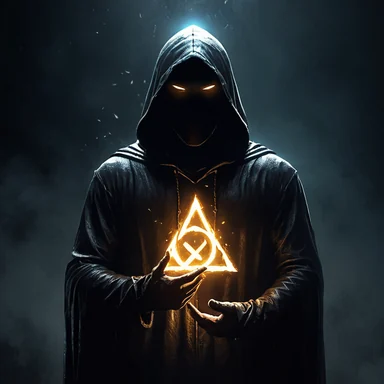
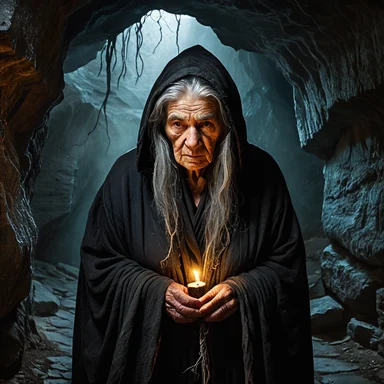
Сборка для GitHub Pages: 24.09 13:19

diff --git a/sw.js b/sw.js
@@ -1,3 +1,3 @@
-if(!self.define){let e,i={};const s=(s,r)=>(s=new URL(s+".js",r).href,i[s]||new Promise(i=>{if("document"in self){const e=document.createElement("script");e.src=s,e.onload=i,document.head.appendChild(e)}else e=s,importScripts(s),i()}).then(()=>{let e=i[s];if(!e)throw new Error(`Module ${s} didn’t register its module`);return e}));self.define=(r,n)=>{const o=e||("document"in self?document.currentScript.src:"")||location.href;if(i[o])return;let b={};const a=e=>s(e,o),d={module:{uri:o},exports:b,require:a};i[o]=Promise.all(r.map(e=>d[e]||a(e))).then(e=>(n(...e),b))}}define(["./workbox-9c191d2f"],function(e){"use strict";self.skipWaiting(),e.clientsClaim(),e.precacheAndRoute([{url:"index.html",revision:"16d0a4d8e2c24fd079bee90f15c763f1"},{url:"icon.svg",revision:"c8f89d95424224c2aef63bae93719b18"},{url:"title/layers/manifest.json",revision:"46f9ea9175ca99b09e5002d9c01b5795"},{url:"title/layers/book.webp",revision:"1b742a6dcba414ddfafd4a1fe432deeb"},{url:"portraits/robin.webp",revision:"68d62edb9fab66624053b608c4e306bb"},{url:"portraits/girl3.webp",revision:"9d66bfc9dc4bd74e2ef465ddae8d6b45"},{url:"portraits/girl2.webp",revision:"d6f0f9e30cfb8990a713f62bf3bc71d5"},{url:"portraits/girl1.webp",revision:"80c3206fd49b1b8c652c5b9e085b330b"},{url:"portraits/boy3.webp",revision:"7536f9eba5ae7b06844d6f34167d962c"},{url:"portraits/boy2.webp",revision:"58966fa7a3fb0c3baea8faee75885502"},{url:"portraits/boy1.webp",revision:"93762c28290dc1a0310d95f2606656f2"},{url:"map/kingdom.webp",revision:"d866082975e996967e8b1c99e25c19de"},{url:"map/kingdom.json",revision:"a729d6850d95914f68d0711af73656e6"},{url:"items/key-snake.webp",revision:"158fc9dc89db7693b97cc713dfc0787f"},{url:"items/key-rose.webp",revision:"f083f6515093b21d94d8773d45f80ec5"},{url:"items/key-octopus.webp",revision:"22dc83a62d9cf2b99bc77aa9631ceb15"},{url:"items/key-moon.webp",revision:"71f413c2936d7c3f72bf8b75cf04cf74"},{url:"items/gem-garnet.webp",revision:"9e40f9a4fb1e67b0e83c2504c5a2b348"},{url:"items/gem-emerald.webp",revision:"7186cd2fefb496298091f8d1e39f95f1"},{url:"items/gem-diamond.webp",revision:"72a7fc8dc1e0ada5e04ec360d2fb3c53"},{url:"items/gem-amethyst.webp",revision:"6d69f353f1244776dd58727d4ea29099"},{url:"items/boon-wish.webp",revision:"02ced058741f5009261fa2c0b228e125"},{url:"items/boon-tilarun.webp",revision:"75685ee8fdd8fe2abed0a1eb4bd33398"},{url:"items/boon-name.webp",revision:"3f3404e58f2f544a78d8e20a54358f7f"},{url:"items/boon-cherries.webp",revision:"d7d89c7bafc16cddda8f7995899a2e14"},{url:"assets/workbox-window.prod.es5-BqEJf4Xk.js",revision:null},{url:"assets/virtual_pwa-register-ybHe8bFJ.js",revision:null},{url:"assets/titleScene-DJGpXcQZ.js",revision:null},{url:"assets/three.module-BpywewfO.js",revision:null},{url:"assets/squares-DEeo9vPJ.json",revision:null},{url:"assets/nodes-D3MNscLG.json",revision:null},{url:"assets/index-D2DCTFVg.js",revision:null},{url:"assets/index-BVqzz_zN.css",revision:null},{url:"assets/diceScene-B5-kztpt.js",revision:null},{url:"assets/NarniaBLL-OtJQC2a7.ttf",revision:null},{url:"icon-192.png",revision:"79b42fb631b0522c2725e5e1ae192844"},{url:"icon-512.png",revision:"c41aa6f1ed17bb141e45544ac296129a"},{url:"icon.svg",revision:"c8f89d95424224c2aef63bae93719b18"},{url:"manifest.webmanifest",revision:"6736682845b265ba7965763a7697b801"}],{}),e.cleanupOutdatedCaches(),e.registerRoute(new e.NavigationRoute(e.createHandlerBoundToURL("index.html")))});
+if(!self.define){let e,i={};const s=(s,r)=>(s=new URL(s+".js",r).href,i[s]||new Promise(i=>{if("document"in self){const e=document.createElement("script");e.src=s,e.onload=i,document.head.appendChild(e)}else e=s,importScripts(s),i()}).then(()=>{let e=i[s];if(!e)throw new Error(`Module ${s} didn’t register its module`);return e}));self.define=(r,n)=>{const o=e||("document"in self?document.currentScript.src:"")||location.href;if(i[o])return;let b={};const a=e=>s(e,o),l={module:{uri:o},exports:b,require:a};i[o]=Promise.all(r.map(e=>l[e]||a(e))).then(e=>(n(...e),b))}}define(["./workbox-9c191d2f"],function(e){"use strict";self.skipWaiting(),e.clientsClaim(),e.precacheAndRoute([{url:"index.html",revision:"16d0a4d8e2c24fd079bee90f15c763f1"},{url:"icon.svg",revision:"c8f89d95424224c2aef63bae93719b18"},{url:"title/layers/manifest.json",revision:"46f9ea9175ca99b09e5002d9c01b5795"},{url:"title/layers/book.webp",revision:"1b742a6dcba414ddfafd4a1fe432deeb"},{url:"portraits/robin.webp",revision:"68d62edb9fab66624053b608c4e306bb"},{url:"portraits/girl3.webp",revision:"9d66bfc9dc4bd74e2ef465ddae8d6b45"},{url:"portraits/girl2.webp",revision:"d6f0f9e30cfb8990a713f62bf3bc71d5"},{url:"portraits/girl1.webp",revision:"80c3206fd49b1b8c652c5b9e085b330b"},{url:"portraits/boy3.webp",revision:"7536f9eba5ae7b06844d6f34167d962c"},{url:"portraits/boy2.webp",revision:"58966fa7a3fb0c3baea8faee75885502"},{url:"portraits/boy1.webp",revision:"93762c28290dc1a0310d95f2606656f2"},{url:"map/kingdom.webp",revision:"d866082975e996967e8b1c99e25c19de"},{url:"map/kingdom.json",revision:"a729d6850d95914f68d0711af73656e6"},{url:"items/key-snake.webp",revision:"158fc9dc89db7693b97cc713dfc0787f"},{url:"items/key-rose.webp",revision:"f083f6515093b21d94d8773d45f80ec5"},{url:"items/key-octopus.webp",revision:"22dc83a62d9cf2b99bc77aa9631ceb15"},{url:"items/key-moon.webp",revision:"71f413c2936d7c3f72bf8b75cf04cf74"},{url:"items/gem-garnet.webp",revision:"9e40f9a4fb1e67b0e83c2504c5a2b348"},{url:"items/gem-emerald.webp",revision:"7186cd2fefb496298091f8d1e39f95f1"},{url:"items/gem-diamond.webp",revision:"72a7fc8dc1e0ada5e04ec360d2fb3c53"},{url:"items/gem-amethyst.webp",revision:"6d69f353f1244776dd58727d4ea29099"},{url:"items/boon-wish.webp",revision:"02ced058741f5009261fa2c0b228e125"},{url:"items/boon-tilarun.webp",revision:"565c7e20e47cfedf4527ac32086e6230"},{url:"items/boon-name.webp",revision:"ba1bca76ac94bc3d74d362f9f23f7a0a"},{url:"items/boon-cherries.webp",revision:"d7d89c7bafc16cddda8f7995899a2e14"},{url:"assets/workbox-window.prod.es5-BqEJf4Xk.js",revision:null},{url:"assets/virtual_pwa-register-ybHe8bFJ.js",revision:null},{url:"assets/titleScene-DJGpXcQZ.js",revision:null},{url:"assets/three.module-BpywewfO.js",revision:null},{url:"assets/squares-DEeo9vPJ.json",revision:null},{url:"assets/nodes-D3MNscLG.json",revision:null},{url:"assets/index-D2DCTFVg.js",revision:null},{url:"assets/index-BVqzz_zN.css",revision:null},{url:"assets/diceScene-B5-kztpt.js",revision:null},{url:"assets/NarniaBLL-OtJQC2a7.ttf",revision:null},{url:"icon-192.png",revision:"79b42fb631b0522c2725e5e1ae192844"},{url:"icon-512.png",revision:"c41aa6f1ed17bb141e45544ac296129a"},{url:"icon.svg",revision:"c8f89d95424224c2aef63bae93719b18"},{url:"manifest.webmanifest",revision:"6736682845b265ba7965763a7697b801"}],{}),e.cleanupOutdatedCaches(),e.registerRoute(new e.NavigationRoute(e.createHandlerBoundToURL("index.html")))});
 //# sourceMappingURL=sw.js.map
 //# sourceMappingURL=sw.js.map
